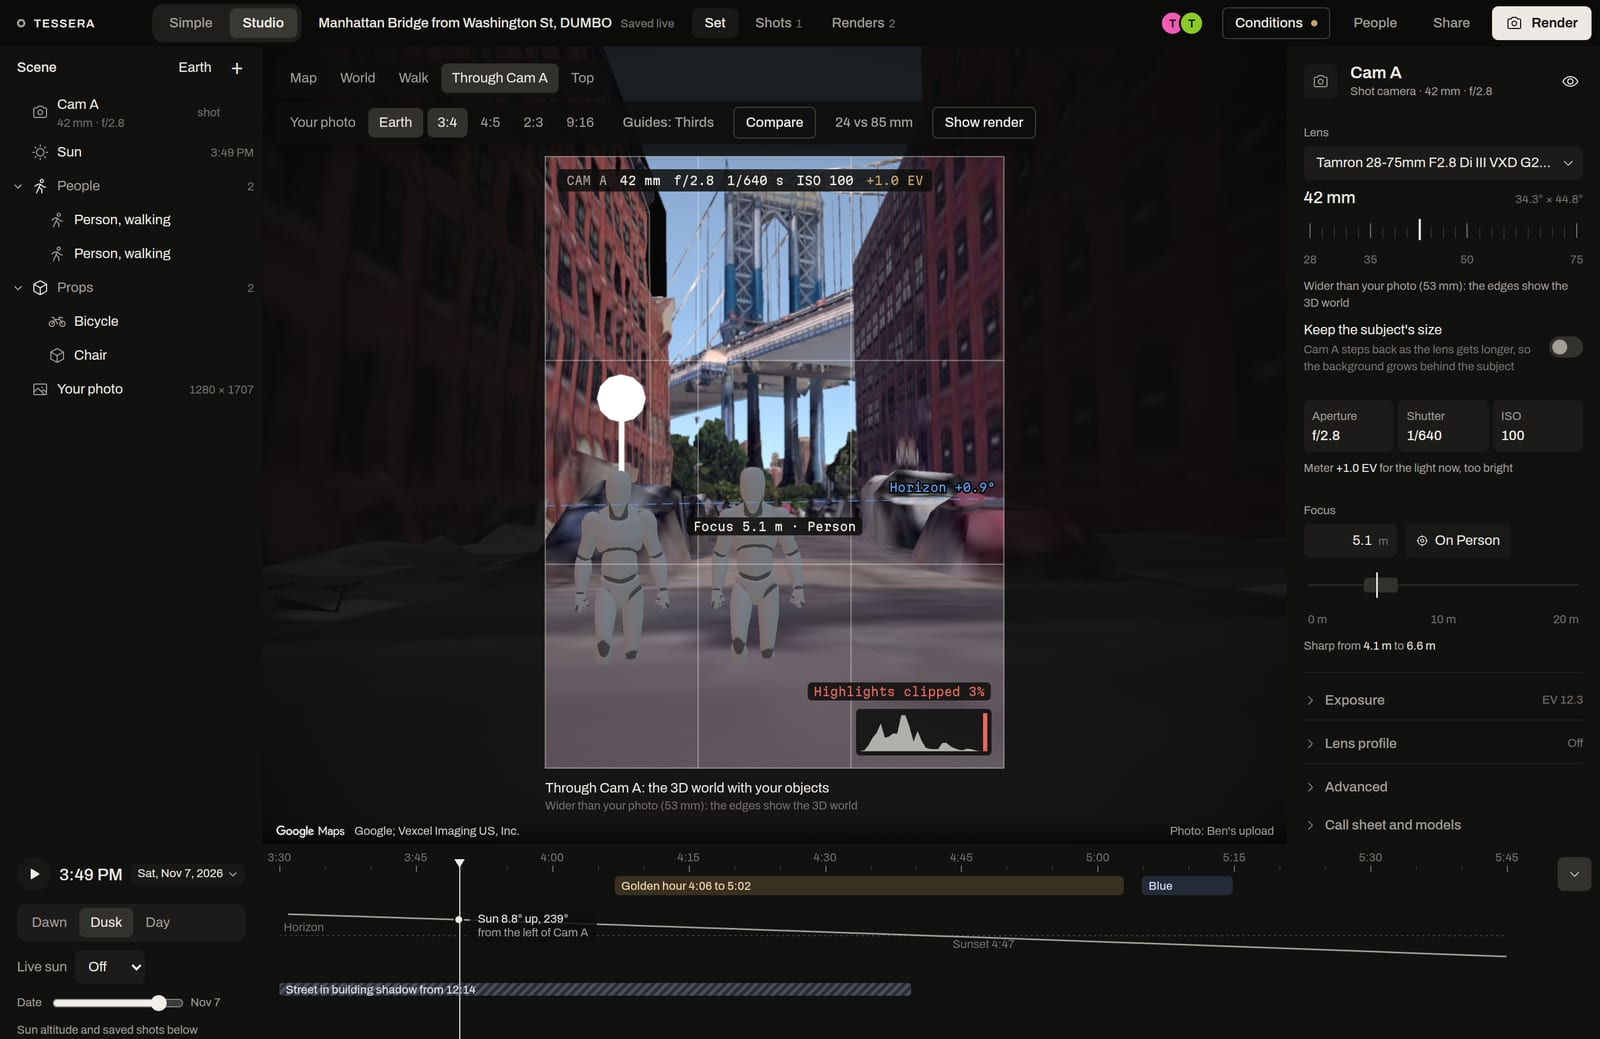
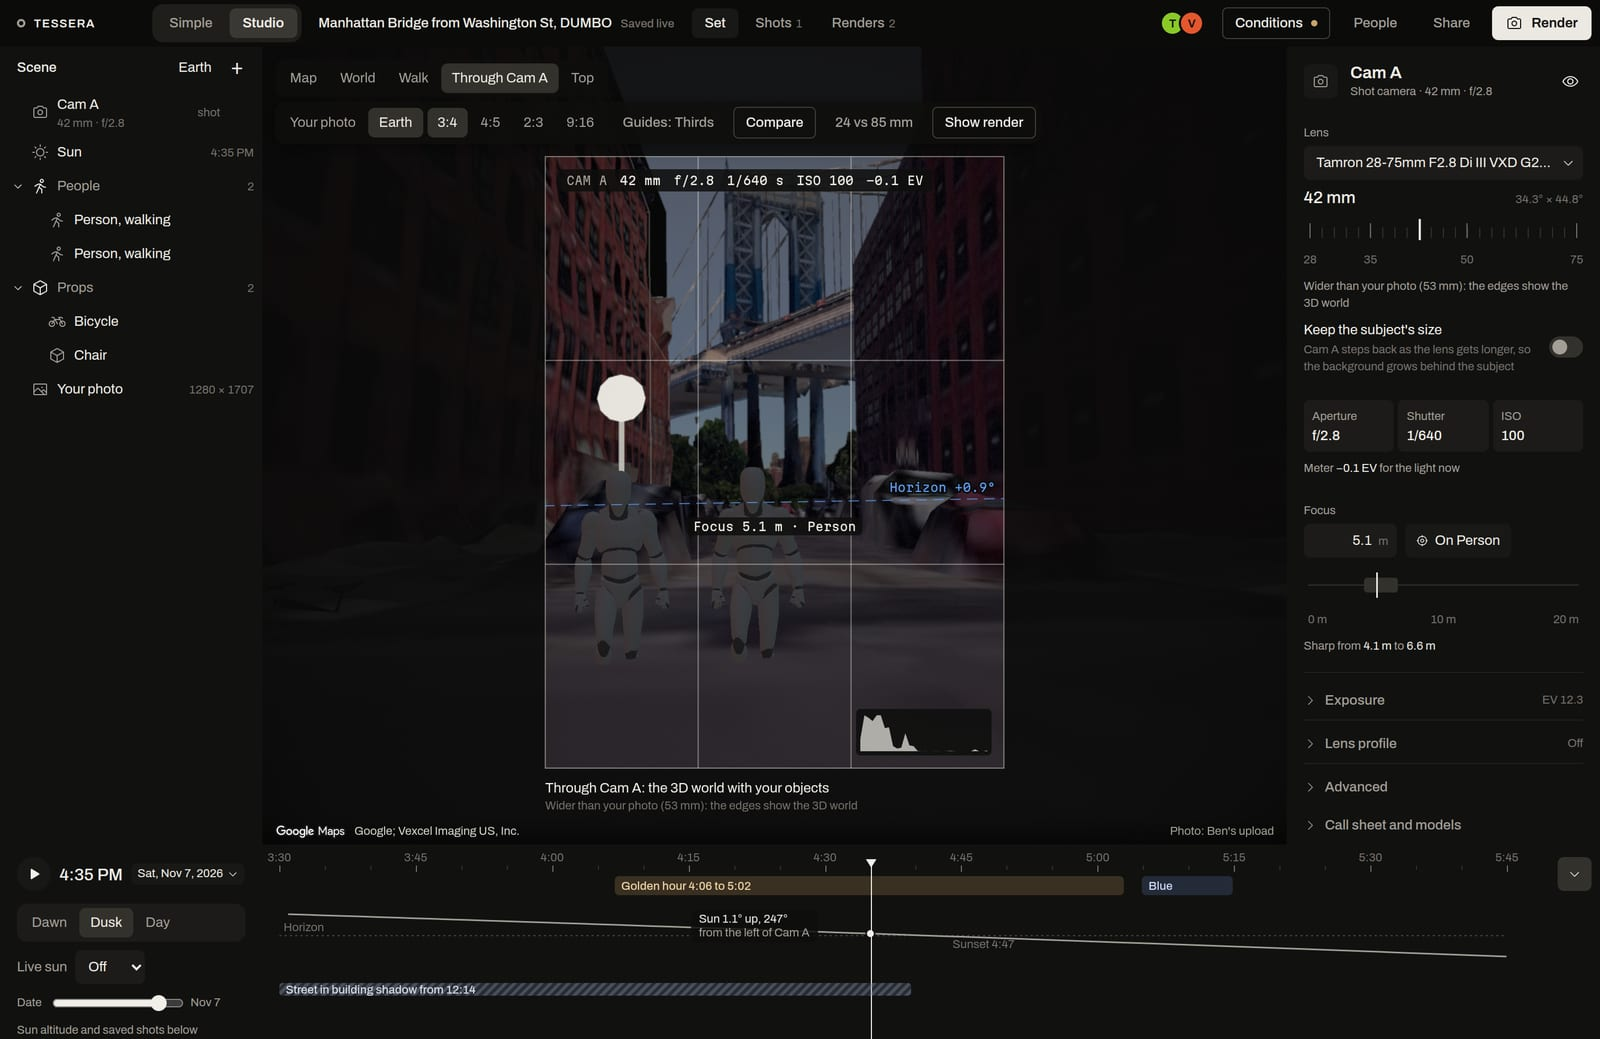
Headline still from the 4:35 PM Earth frame (no clipping warning): Devpost 1, og.jpg and the SpacetimeDB and Design hero

diff --git a/site/src/tracks/spacetime.ts b/site/src/tracks/spacetime.ts
@@ -13,7 +13,7 @@ export default {
   oneLine: 'The whole shared set is one SpacetimeDB module: every person, prop, light and camera is a row that browsers, phones, our GPU worker and the text bridge edit together, live.',
   hero: {
     img: hero,
-    alt: 'Studio on production looking through Cam A over the Google Photorealistic 3D Tiles of Washington St, with two placed people, the scene outline listing Cam A, the sun, two people, a bicycle and a chair, and the camera inspector',
+    alt: 'Studio looking through Cam A at 4:35 PM over the Google Photorealistic 3D Tiles of Washington St, with two placed people, the scene outline listing Cam A, the sun, two people, a bicycle and a chair, and the camera inspector',
     caption: 'Studio on production. Cam A, the sun, the two people, the bicycle and the chair in the outline are rows in SpacetimeDB; everyone in the shoot sees them change within a network round trip.',
     frame: 'browser',
     url: 'app.tesseraphoto.com/studio/A9TVAN',
